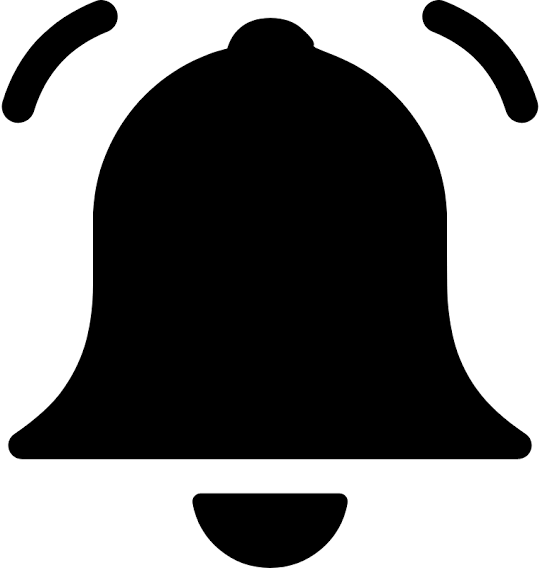
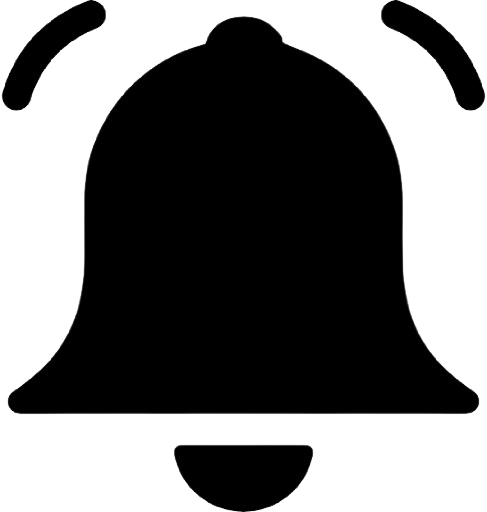
Updated

diff --git a/public/user_home.html b/public/user_home.html
@@ -52,7 +52,7 @@
 
   <!-- NOTIFICATION BELL -->
   <div class="bell" onclick="toggleNotif()">
-    notif-icon
+    <img src="img/bell.png" alt="Notifications" style="width:25px; height:25px;">
     <span id="notifCount" class="notif-badge"></span>
   </div>
 